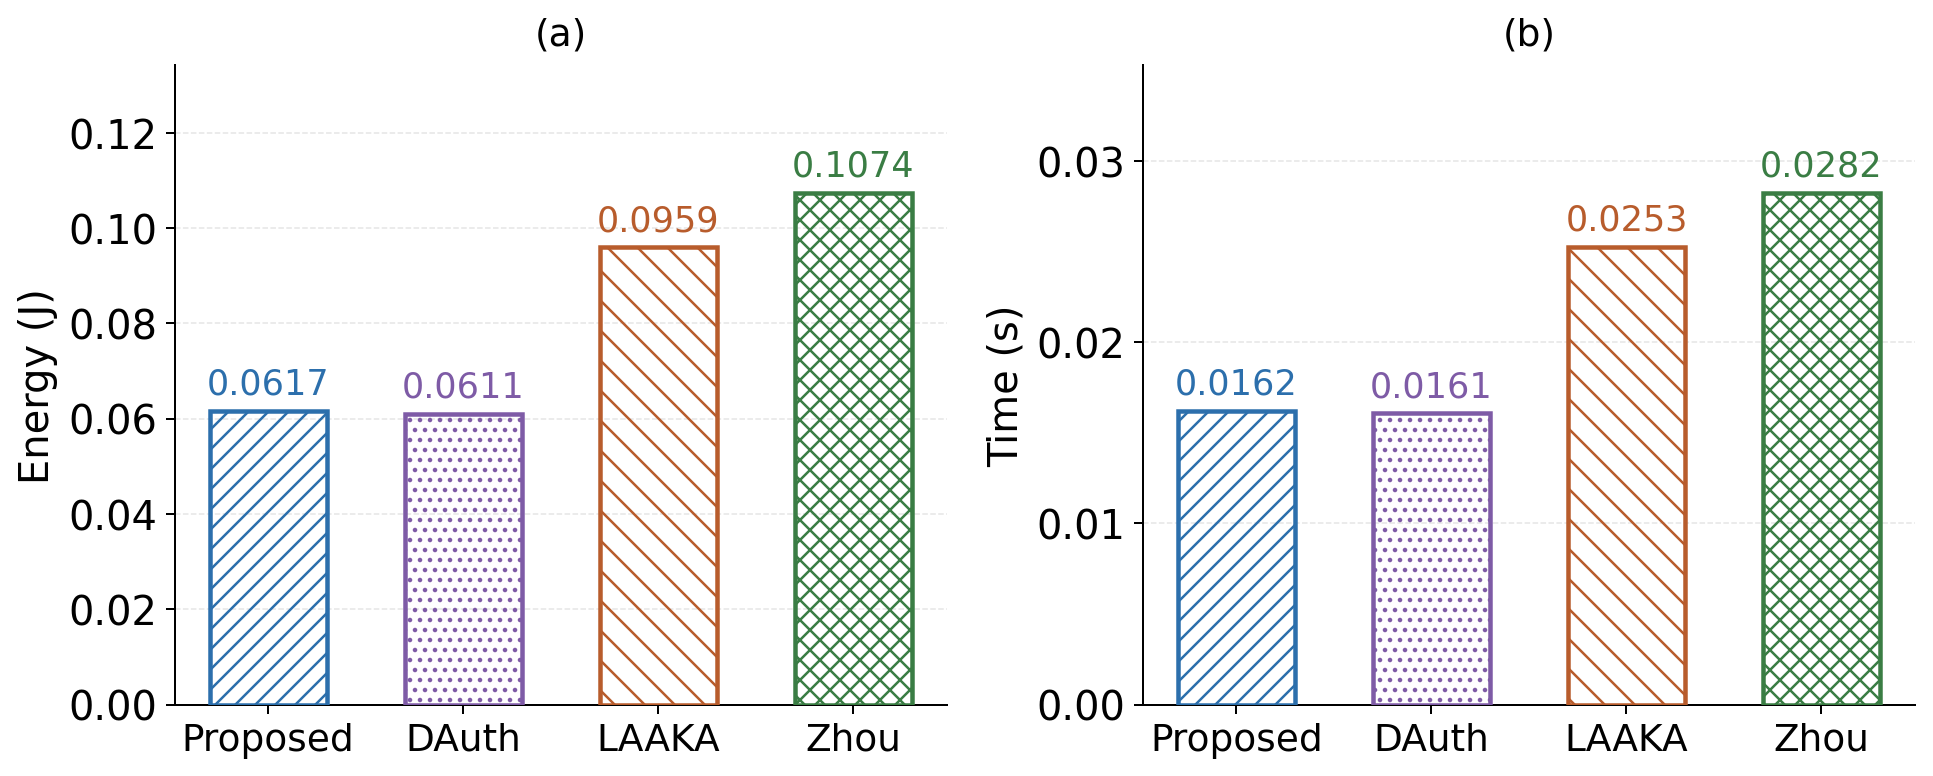
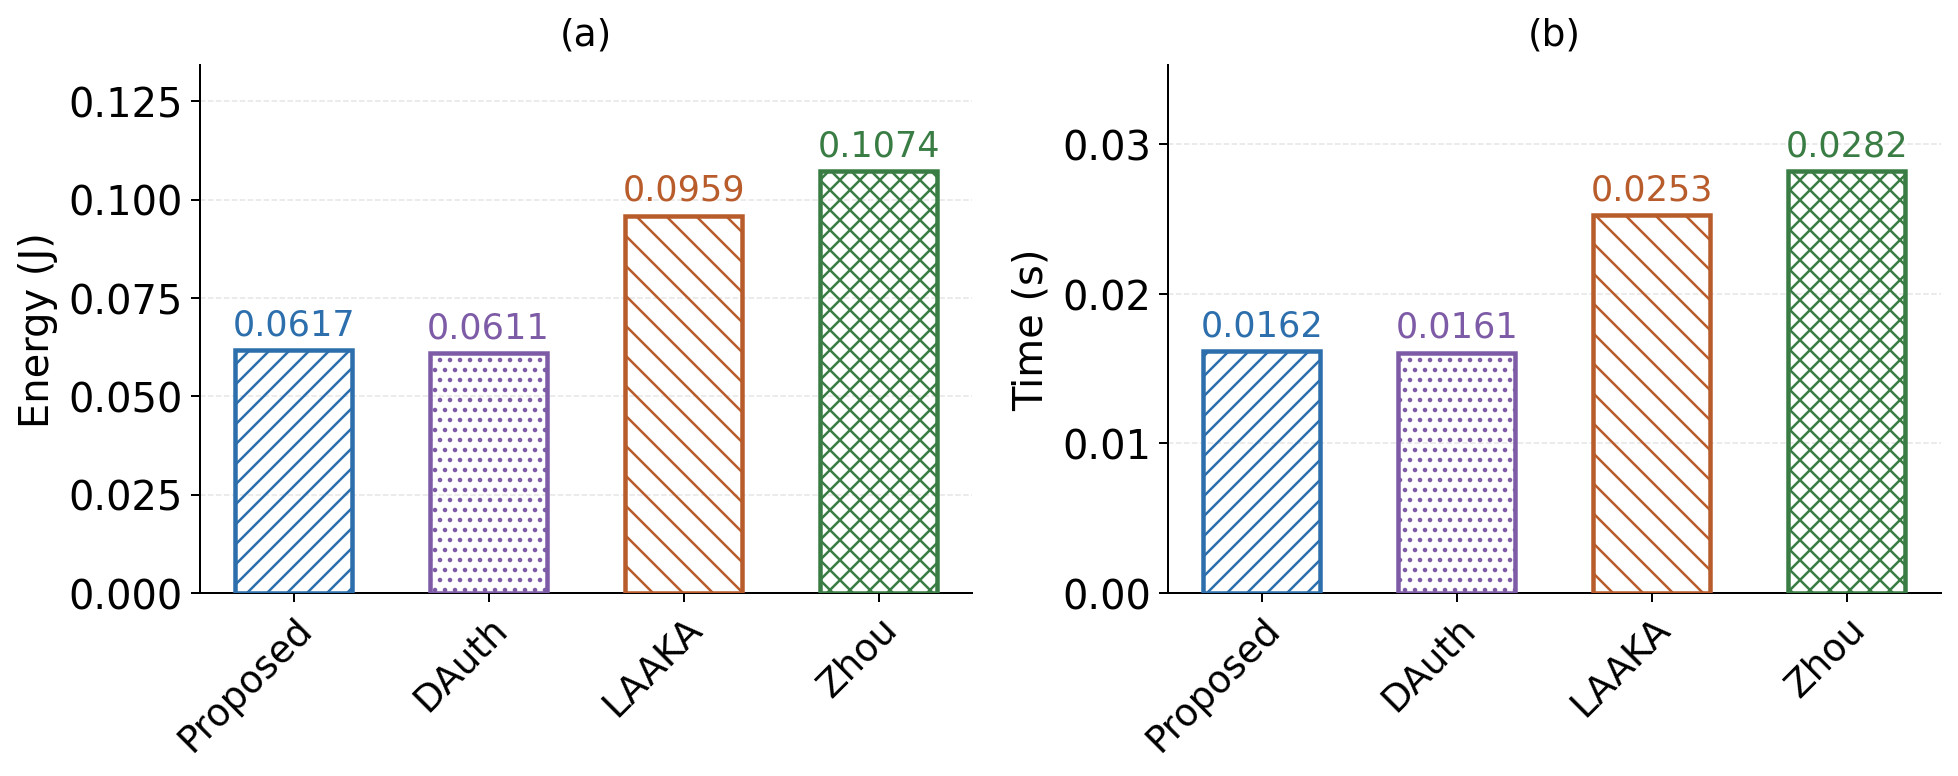
Charts: tilt x-axis scheme labels 45 deg on figs 5, 8, 10
Rotate the scheme-name x tick labels 45 degrees (right-anchored) on
fig_sim_total (per-device cost), fig_desync_bar (recovery cost), and
fig_hw_comparison (hardware). Regenerate the three figures; data
unchanged.

diff --git a/Hardware/MIRACLE/plot_auth_keyex.py b/Hardware/MIRACLE/plot_auth_keyex.py
@@ -55,7 +55,7 @@ def main():
                    hatch=HATCHES[lab], linewidth=1.8, zorder=3)
             ax.text(i, vals[i] + max(vals) * 0.02, fmt.format(vals[i]),
                     ha="center", va="bottom", fontsize=14, fontweight="normal", color=COLORS[lab])
-        ax.set_xticks(x); ax.set_xticklabels(labels, fontsize=15)
+        ax.set_xticks(x); ax.set_xticklabels(labels, fontsize=15, rotation=45, ha="right", rotation_mode="anchor")
         ax.set_ylabel(ylabel, fontsize=16, fontweight="normal")
         ax.set_title(title, fontsize=15, fontweight="normal", pad=8)
         ax.yaxis.grid(True, linestyle="--", linewidth=0.6, color="#e5e5e5")

diff --git a/Scripts/Simulation-Runners/plot_desync_bar.py b/Scripts/Simulation-Runners/plot_desync_bar.py
@@ -123,7 +123,7 @@ def draw_panel(ax, stats, ylabel, fmt):
                 color=SCHEME_COLORS[scheme])
 
     ax.set_xticks(range(n_schemes))
-    ax.set_xticklabels(SCHEMES, fontsize=31, ha="center")
+    ax.set_xticklabels(SCHEMES, fontsize=31, rotation=45, ha="right", rotation_mode="anchor")
     ax.set_ylabel(ylabel, labelpad=20, fontsize=34, fontweight="normal")
     ax.yaxis.grid(True, linestyle="--", linewidth=0.6, color="#e5e5e5")
     ax.set_axisbelow(True)

diff --git a/Scripts/Simulation-Runners/plot_10seed_comparison.py b/Scripts/Simulation-Runners/plot_10seed_comparison.py
@@ -129,7 +129,7 @@ def draw_panel(ax, stats, ylabel, fmt):
 
     ax.set_xticks(pos)
     ax.set_xticklabels([SCHEME_LABEL[s] for s, _, _ in stats],
-                       fontsize=24, ha="center")
+                       fontsize=24, rotation=45, ha="right", rotation_mode="anchor")
     ax.set_ylabel(ylabel, labelpad=20, fontsize=26, fontweight="normal")
     ax.yaxis.grid(True, linestyle="--", linewidth=0.6, color="#e5e5e5")
     ax.set_axisbelow(True)
